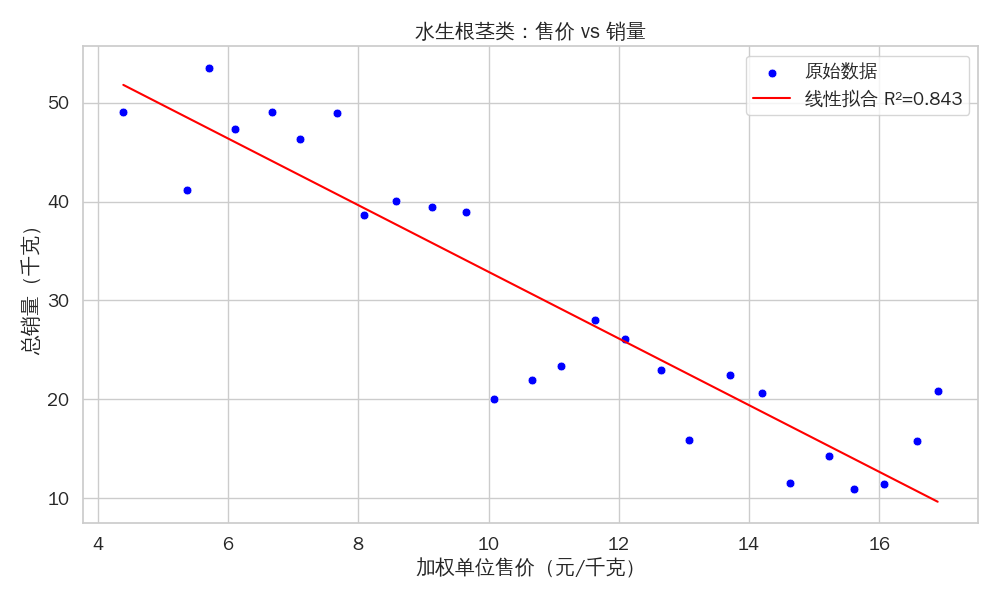
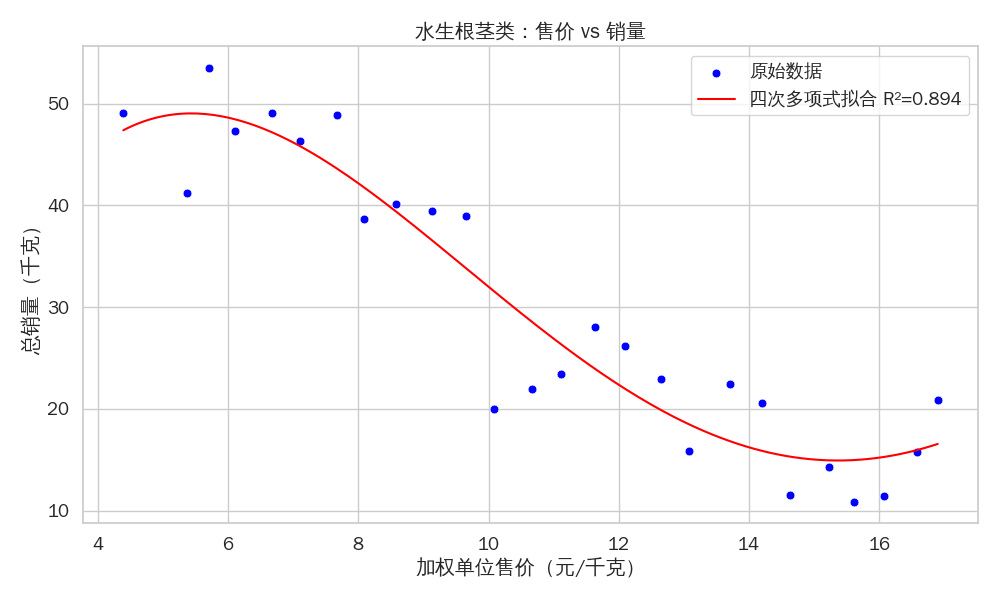
增加多项式

diff --git a/Q2_Virtual.py b/Q2_Virtual.py
@@ -9,17 +9,24 @@ from scipy.optimize import curve_fit
 
 # 生成拟合函数公式字符串
 def format_equation(name, params):
-    a, b = params
     if name == "线性":
+        a, b = params
         return f"y = {a:.4f}·x + {b:.4f}"
     elif name == "对数":
+        a, b = params
         return f"y = {a:.4f}·ln(x) + {b:.4f}"
     elif name == "幂函数":
+        a, b = params
         return f"y = {a:.4f}·x^{b:.4f}"
     elif name == "指数":
+        a, b = params
         return f"y = {a:.4f}·e^({b:.4f}·x)"
+    elif "多项式" in name:
+        terms = [f"{p:.4f}·x^{i}" for i, p in reversed(list(enumerate(params)))]
+        return "y = " + " + ".join(terms).replace("+ -", "- ")
     else:
         return "未知函数"
+
 
 # 打印公式
 
@@ -45,11 +52,25 @@ def power_func(x, a, b):
 def expo_func(x, a, b):
     return a * np.exp(b * x)
 
+    # 添加多项式拟合函数（如二次、三次、四次）
+def poly2(x, a, b, c):
+    return a * x**2 + b * x + c
+
+def poly3(x, a, b, c, d):
+    return a * x**3 + b * x**2 + c * x + d
+
+def poly4(x, a, b, c, d, e):
+    return a * x**4 + b * x**3 + c * x**2 + d * x + e
+
+
 fit_funcs = {
     "线性": linear,
     "对数": log_func,
     "幂函数": power_func,
     "指数": expo_func,
+    "二次多项式": poly2,
+    "三次多项式": poly3,
+    "四次多项式": poly4,
 }
 
 # 遍历每个品类
